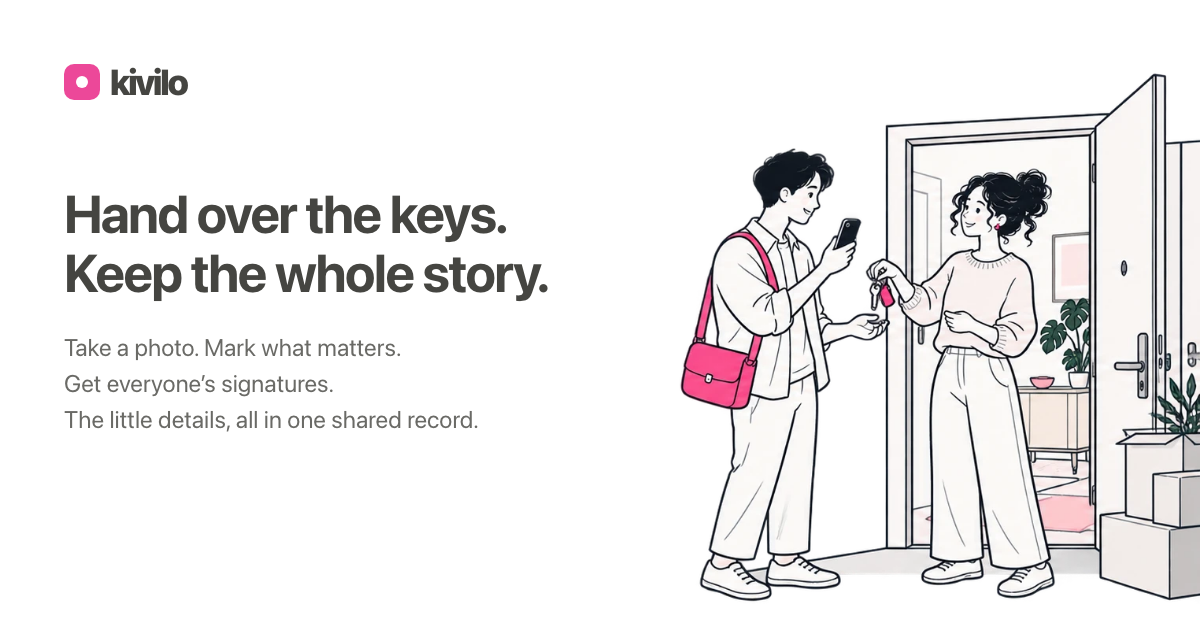
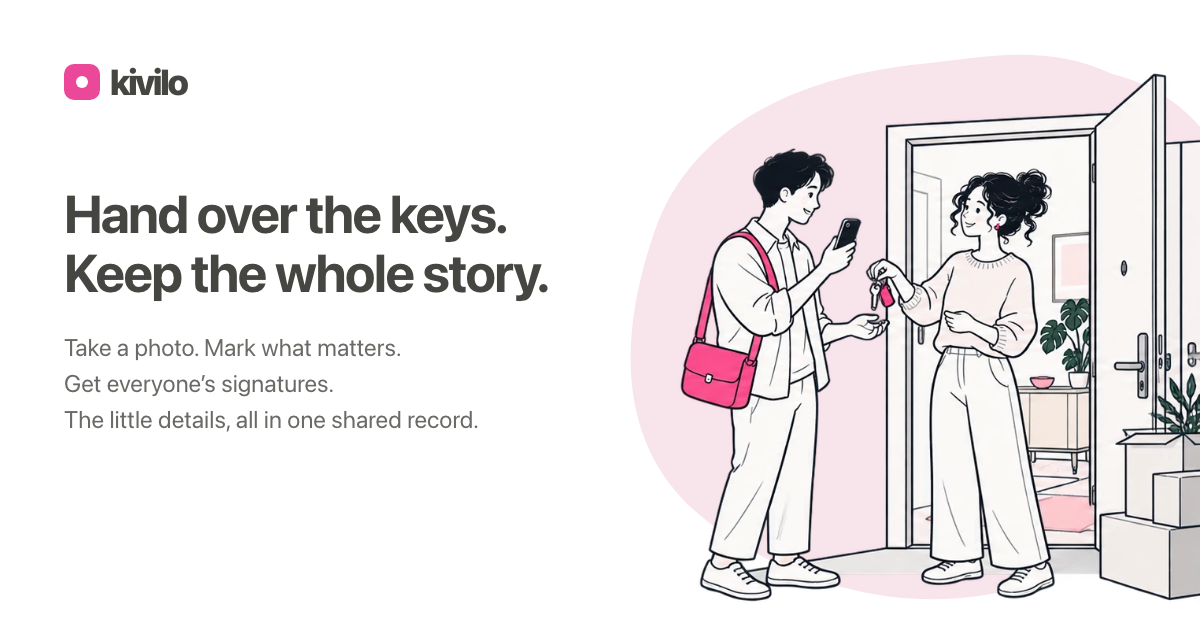
Add a pastel backdrop to the Kivilo social preview

Changed region(s): [[0.5242, 0.0905, 1.0, 0.9651], [0.6167, 0.8444, 0.6475, 0.8746]]

diff --git a/marketing/app/page.tsx b/marketing/app/page.tsx
@@ -7,7 +7,7 @@ import { FREE_ACTIVE_PROPERTIES } from '../../src/lib/plan-limits'
 import styles from './landing.module.css'
 const title = 'Kivilo | Property handovers, check-in & check-out reports'
 const description = `Take photos and mark damage with circles, freehand or arrows. Write inventories, collect signatures and compare check-in with check-out. ${FREE_ACTIVE_PROPERTIES} active properties free.`
-const socialImage = '/opengraph-image.png?v=20261024-left'
+const socialImage = '/opengraph-image.png?v=20261024-blush'
 export const metadata: Metadata = {
   title, description,
   alternates: { canonical: 'https://kivilo.app' },

diff --git a/plans/work-status.md b/plans/work-status.md
@@ -16,7 +16,7 @@ or track changed. Details and rollback are in `mobile/RELEASE.md`.
 
 The illustrated website is an independent static Next.js export in `marketing/`,
 published to Cloudflare Workers Static Assets at `https://kivilo.app`. Worker version:
-`4f73c783-21dd-42da-9c09-176c8246a0ee`. Build/deploy instructions: `marketing/README.md`.
+`dedffaa3-fbc0-4761-b31b-045947373585`. Build/deploy instructions: `marketing/README.md`.
 The working app stays on Vercel at `https://my.kivilo.app`; its root opens Properties.
 The previous app host, installed-client URLs and `KIVILO_APP_URL` remain unchanged.
 The `my` CNAME and Vercel certificate are verified: HTTPS login works and the root
@@ -110,7 +110,8 @@ The signing example now uses two fictional handwritten SVG signatures instead of
 build, strict lint and 320/390/768/1440px visual/layout checks pass. Live HTML and nine
 script/style assets match the export; both sample signatures render on the phone layout.
 The social preview now has left-aligned logo/copy and the happy handover scene on
-the right, preserving the existing artwork and system typography. Its reproducible
+the right, set against a soft blush organic shape. The existing artwork and system
+typography are preserved, with the left copy pixels verified unchanged. Its reproducible
 renderer is `marketing/design/render-social-preview.mjs`; Open Graph and Twitter
 use a revised image URL. The 1200×630 image was visually reviewed, build and scoped
 lint pass, and live HTML, both metadata tags and image bytes match the export.

diff --git a/marketing/README.md b/marketing/README.md
@@ -73,7 +73,8 @@ Organization/WebSite/SoftwareApplication structured data, robots and sitemap.
 `public/llms.txt` is a short factual product reference. Private app pages inherit
 noindex; the app's public utility pages have their own `my.kivilo.app` canonicals.
 The 1200×630 social image places the logo and left-aligned copy beside the happy
-handover artwork on the right. Regenerate it with
+handover artwork on the right, with a soft blush organic shape behind the scene.
+Regenerate it with
 `node marketing/design/render-social-preview.mjs` from the repository root. It uses
 the existing artwork and system font stack; no page server is required. Change the
 `socialImage` version query in `app/page.tsx` when replacing it so social platforms
